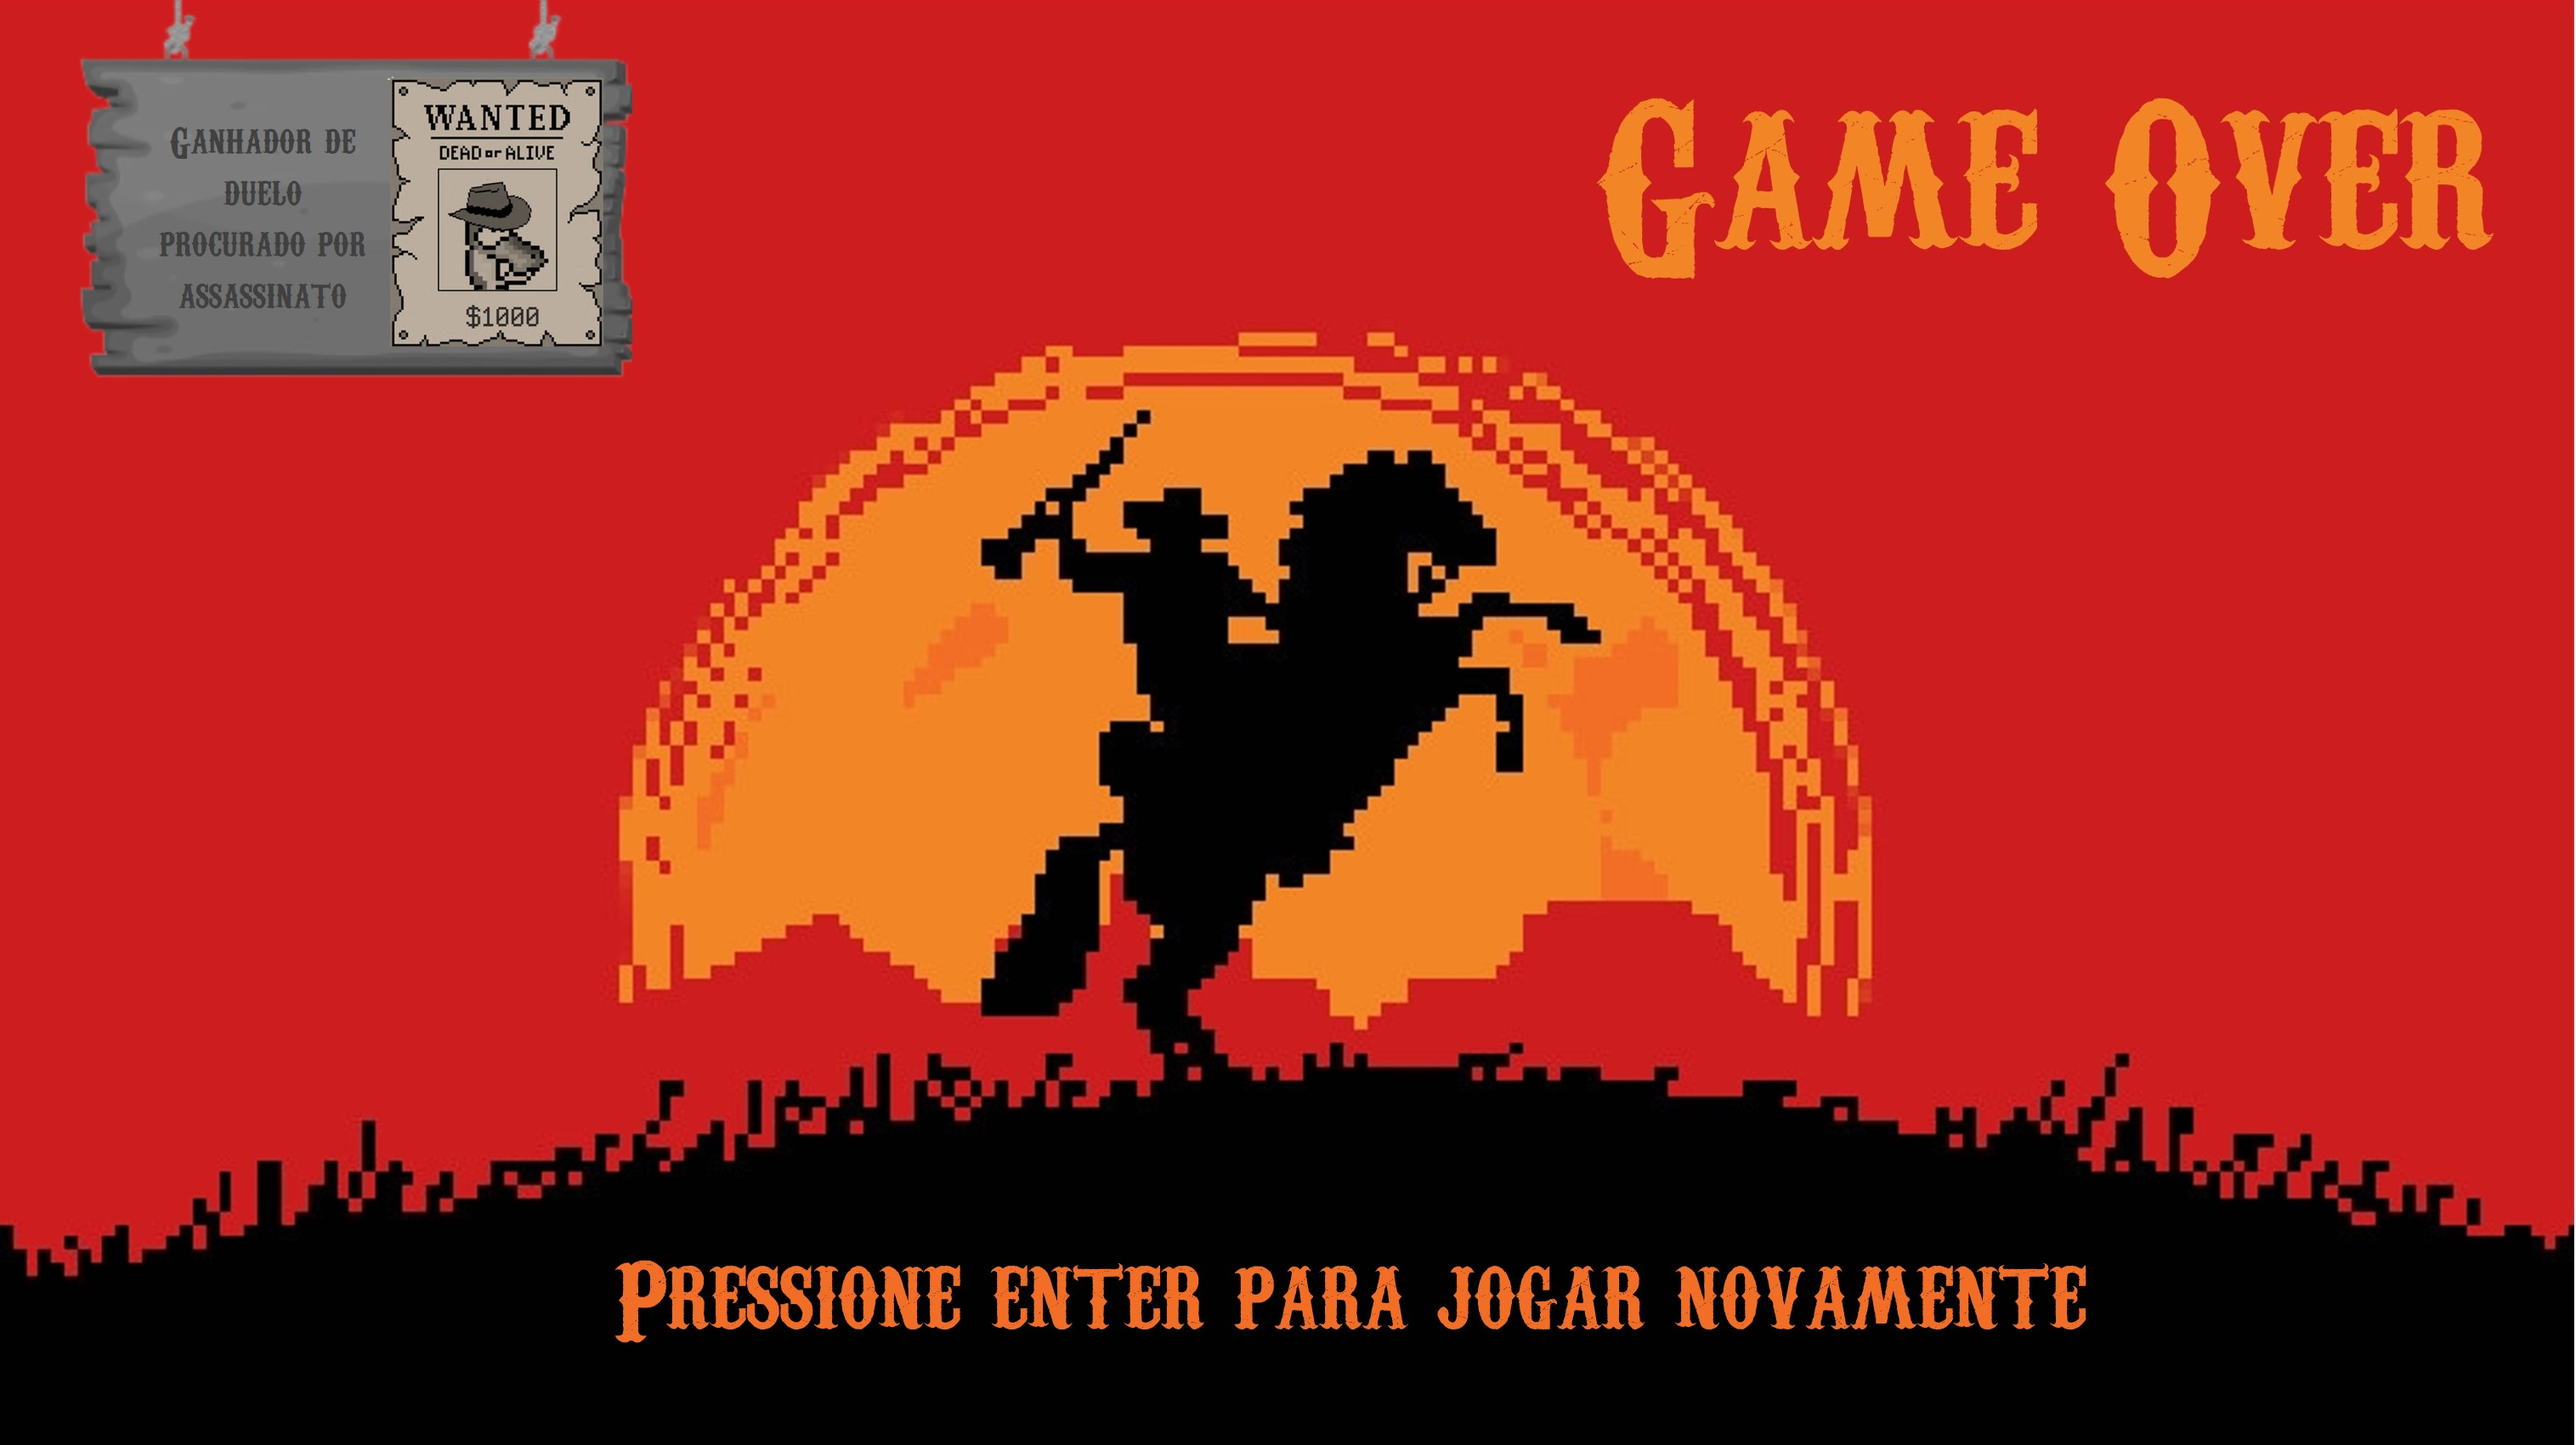
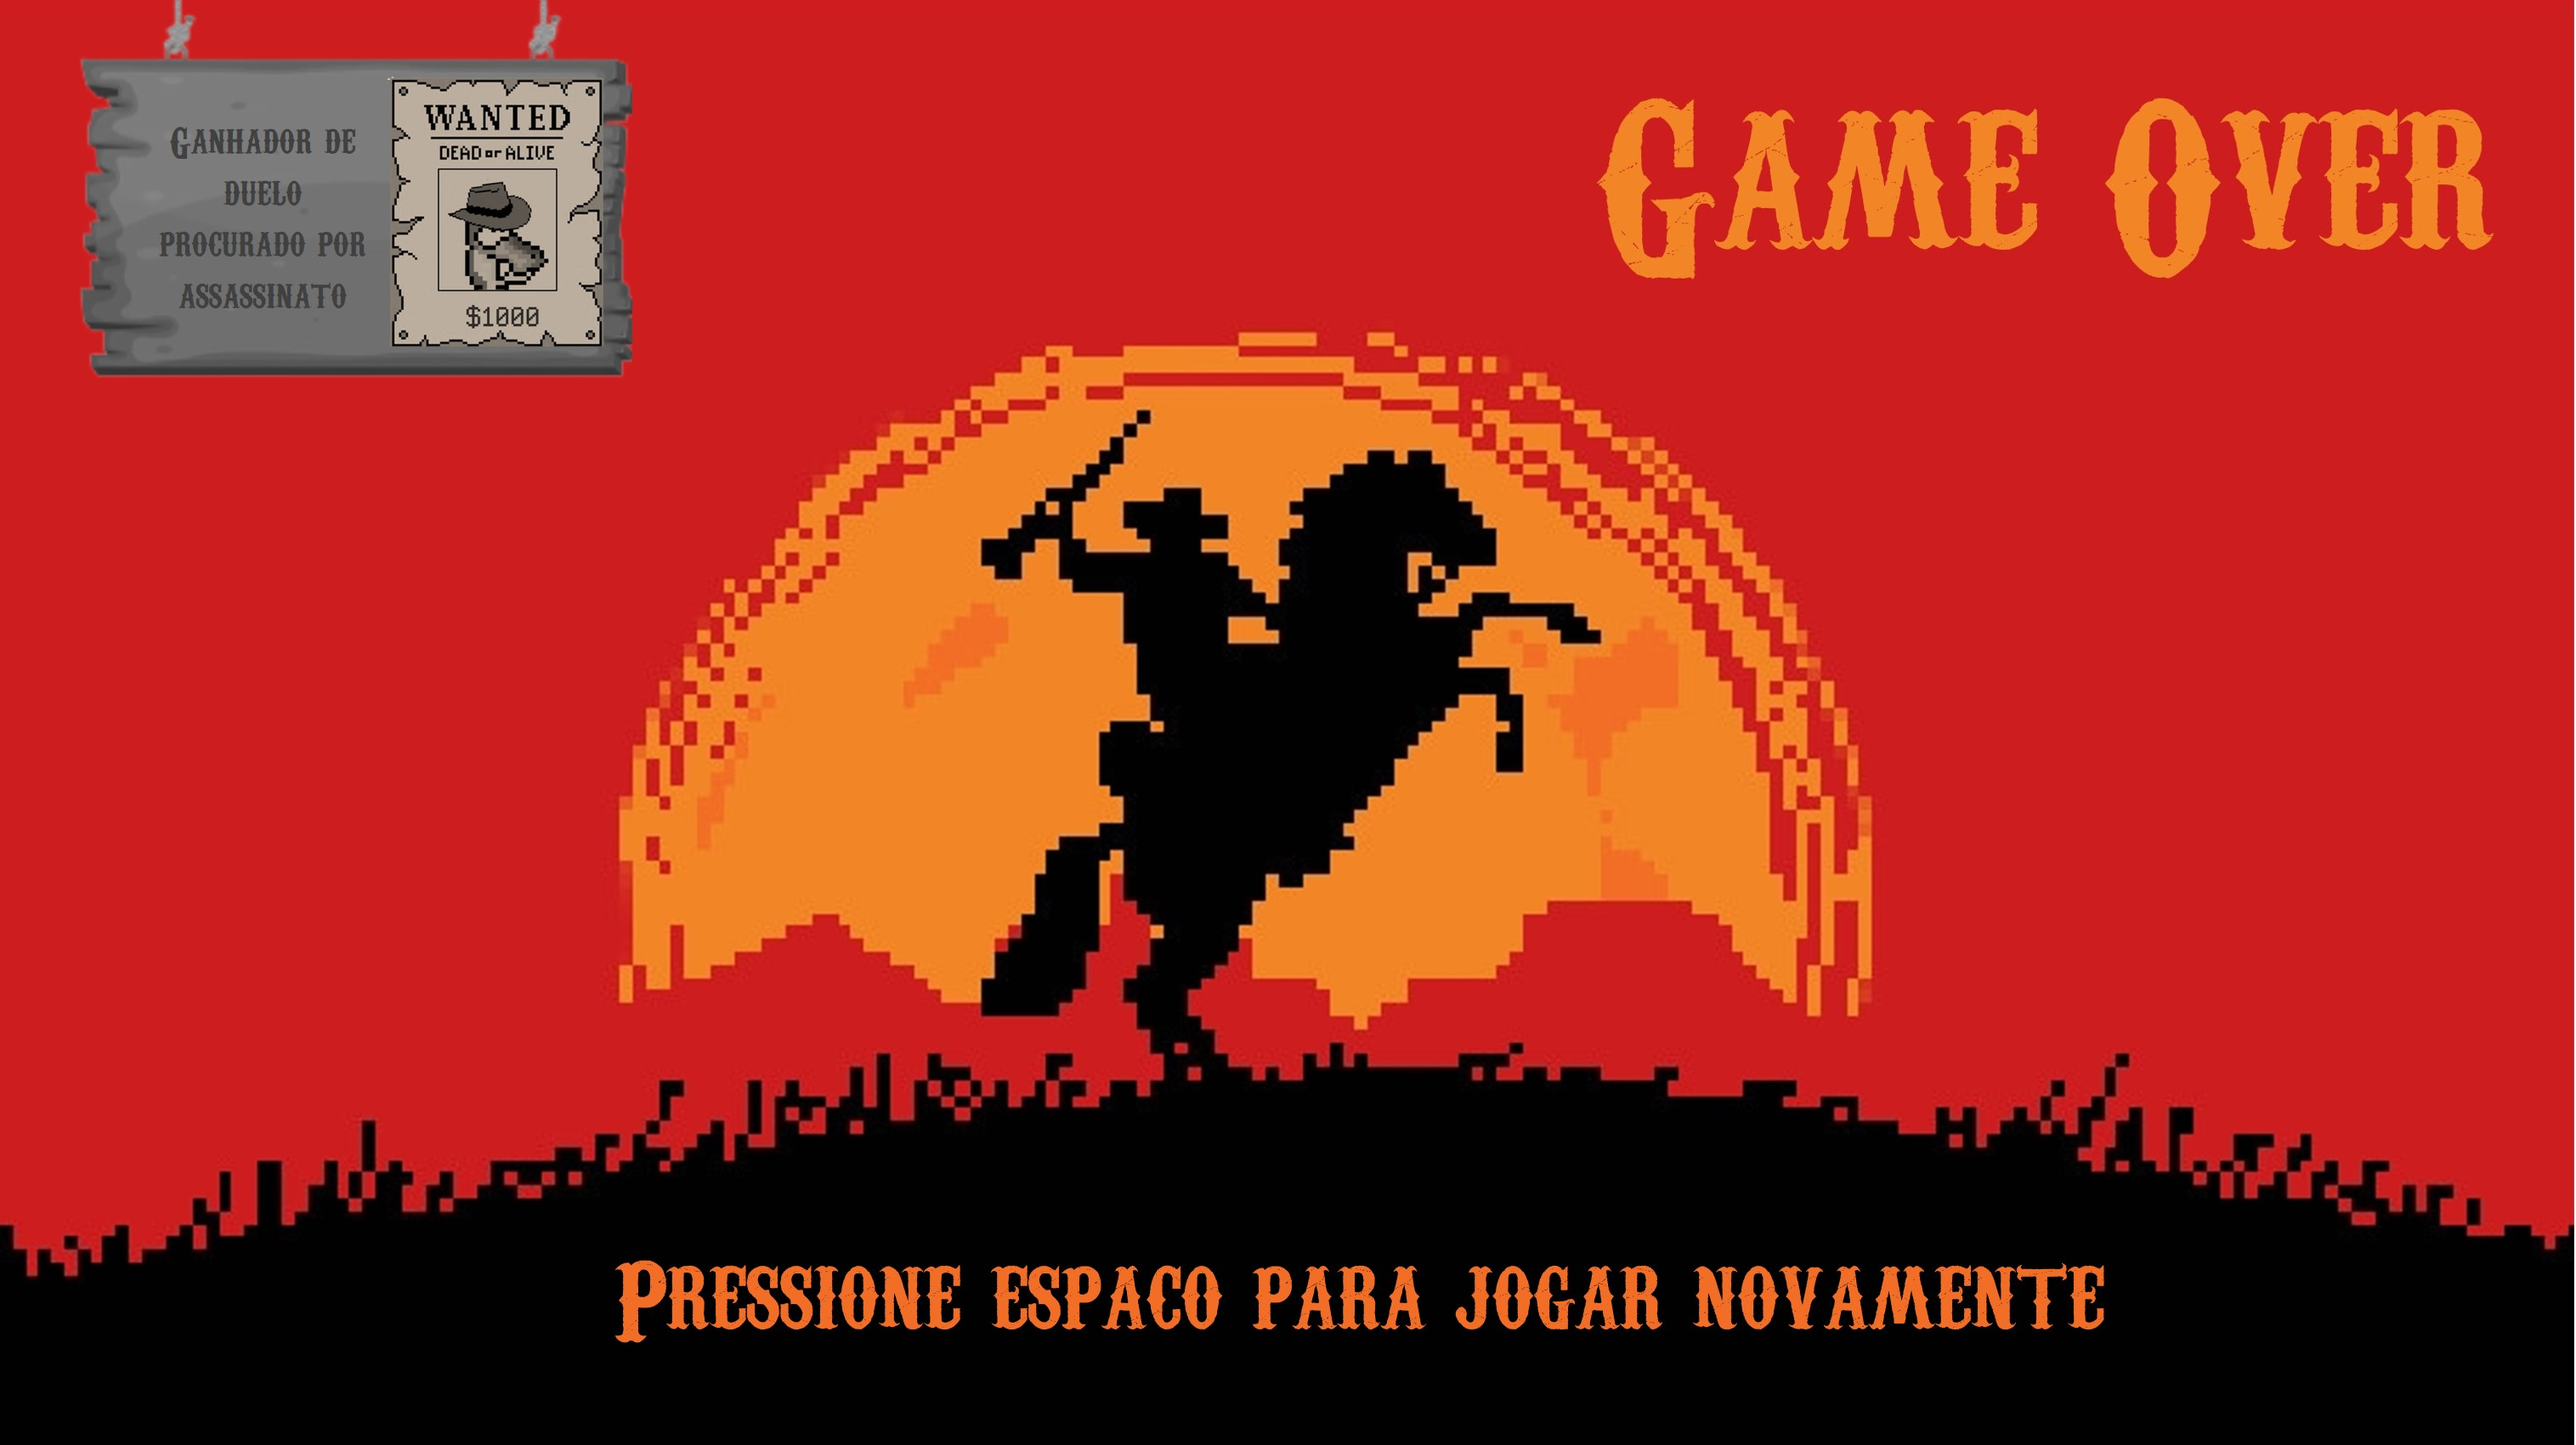
atualização

Changed region(s): [[0.4032, 0.8724, 0.8373, 0.9347]]

diff --git a/finalização.py b/finalização.py
@@ -35,7 +35,7 @@ def tela_final (janela,vitoria):
                 
 
             if evento.type == pygame.KEYUP:
-                if evento.key == pygame.K_KP_ENTER:
+                if evento.key == pygame.K_SPACE:
                     rodando = GAME
                     mixer.music.stop()
                     fun.tocar_musica(musica)
